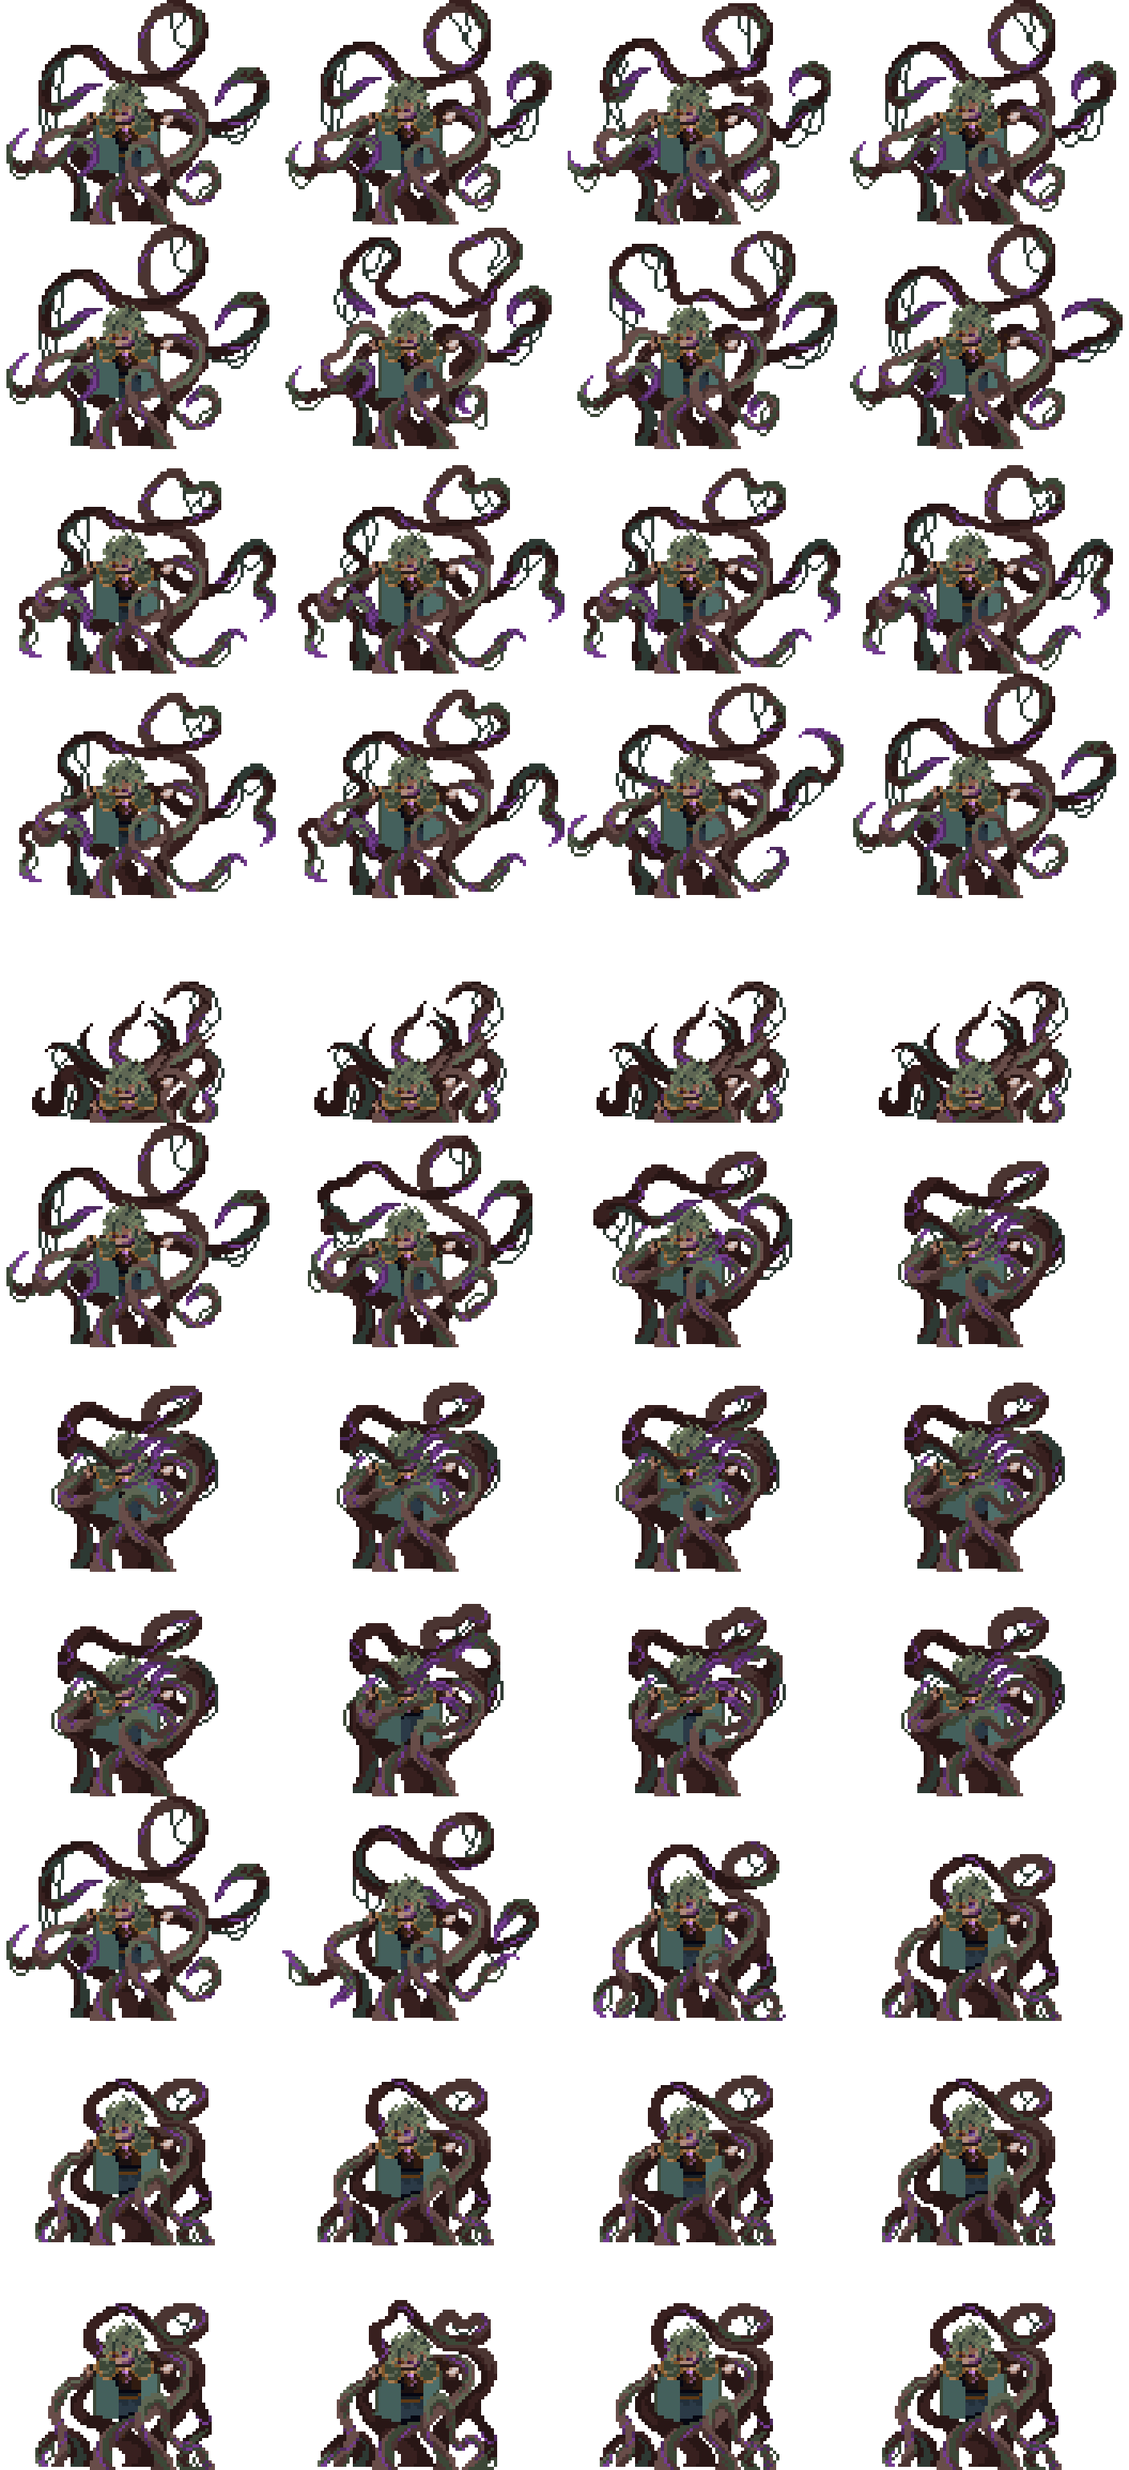
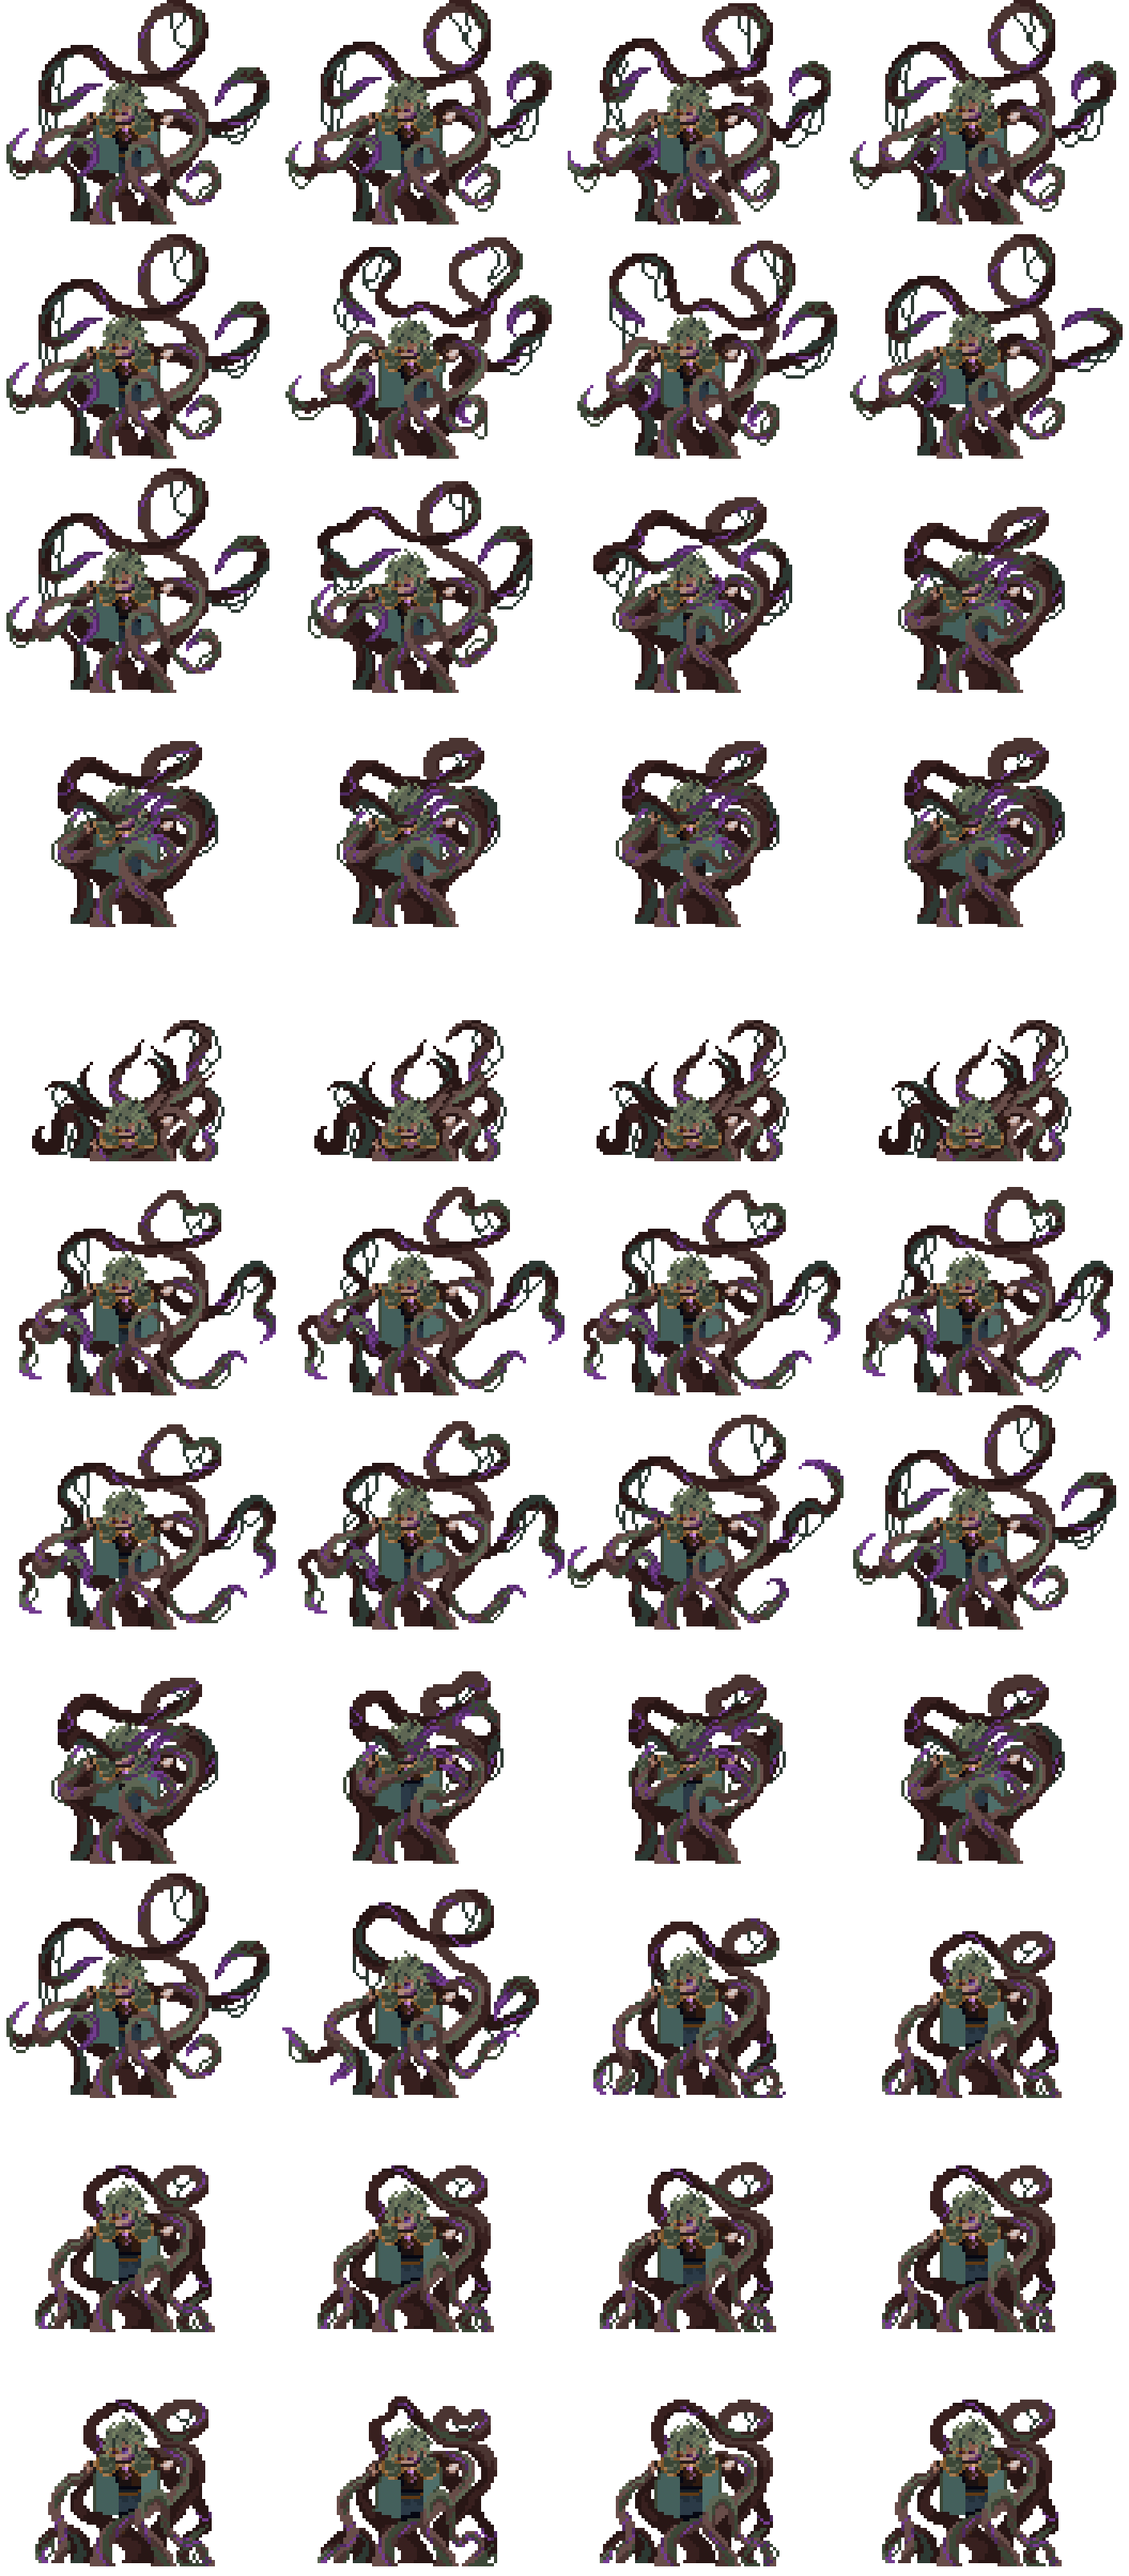
починил на самом деле дэмиана и баг с анимками в краю экрана

Changed region(s): [[0.0, 0.0, 1.0, 1.0]]

diff --git a/js/plugins/FixForcedActionStateTicks.js b/js/plugins/FixForcedActionStateTicks.js
@@ -1,72 +1,215 @@
+
 //=============================================================================
 // FixForcedActionStateTicks.js
-// Blocks state turn reduction for non-subject battlers during and shortly
-// after forced actions triggered by queueForceAction.
-// Place BELOW: YEP_BattleEngineCore, YEP_BuffsStatesCore, YEP_X_BattleSysCTB,
-// CustomAfterActionEffect
+// RPG Maker MV
+//
+// Directly decreases state and buff turn counters after forced actions.
+// Does not call onTurnEnd(), so no extra regeneration is triggered.
+//
+// Place BELOW:
+//   YEP_BattleEngineCore
+//   YEP_BuffsStatesCore
+//   YEP_X_BattleSysCTB
+//   CustomAfterActionEffect
 //=============================================================================
 
 (function() {
+    'use strict';
 
-var Imported = Imported || {};
-Imported.FixForcedActionStateTicks = true;
+    var Imported = Imported || {};
+    Imported.FixForcedActionStateTicks = true;
 
-// --- 1) Hook queueForceAction: mark subject BEFORE forced action runs ---
-if (typeof BattleManager.queueForceAction === 'function') {
-    var _BM_queueForceAction = BattleManager.queueForceAction;
-    BattleManager.queueForceAction = function(subject, skillId, targetIndex) {
-        BattleManager._faSubject = subject;
-        BattleManager._faQueued = true;
-        return _BM_queueForceAction.apply(this, arguments);
+    //-------------------------------------------------------------------------
+    // Initialization
+    //-------------------------------------------------------------------------
+
+    BattleManager._faPendingSubjects = [];
+    BattleManager._faCurrentSubject = null;
+
+    function isBattler(obj) {
+        return obj &&
+            obj._states &&
+            obj._stateTurns &&
+            obj._buffTurns;
+    }
+
+    function battlerName(battler) {
+        if (!battler) return 'NULL';
+
+        if (battler.isActor && battler.isActor()) {
+            return 'Actor: ' + battler.name() +
+                ' (ID ' + battler.actorId() + ')';
+        }
+
+        if (battler.isEnemy && battler.isEnemy()) {
+            return 'Enemy: ' + battler.name() +
+                ' (Index ' + battler.index() + ')';
+        }
+
+        return 'Unknown battler';
+    }
+
+    //-------------------------------------------------------------------------
+    // 1. Remember queued forced-action subjects.
+    //-------------------------------------------------------------------------
+
+    if (typeof BattleManager.queueForceAction === 'function') {
+        var _FA_queueForceAction = BattleManager.queueForceAction;
+
+        BattleManager.queueForceAction = function(subject, skillId, targetIndex) {
+            if (isBattler(subject)) {
+                this._faPendingSubjects.push(subject);
+
+                console.log(
+                    '[FA TICKS] Queued:',
+                    battlerName(subject),
+                    'Skill:',
+                    skillId
+                );
+            }
+
+            return _FA_queueForceAction.apply(this, arguments);
+        };
+    }
+
+    //-------------------------------------------------------------------------
+    // 2. Detect the subject when the forced action starts.
+    //-------------------------------------------------------------------------
+
+    var _FA_processForcedAction = BattleManager.processForcedAction;
+
+    BattleManager.processForcedAction = function() {
+        var forcedSubject = null;
+
+        if (isBattler(this._actionForcedBattler)) {
+            forcedSubject = this._actionForcedBattler;
+        }
+
+        if (!forcedSubject && this._faPendingSubjects.length > 0) {
+            forcedSubject = this._faPendingSubjects.shift();
+        } else if (forcedSubject) {
+            var index = this._faPendingSubjects.indexOf(forcedSubject);
+
+            if (index >= 0) {
+                this._faPendingSubjects.splice(index, 1);
+            }
+        }
+
+        this._faCurrentSubject = forcedSubject;
+
+        console.log(
+            '[FA TICKS] Processing:',
+            battlerName(forcedSubject)
+        );
+
+        _FA_processForcedAction.call(this);
+
+        // Fallback for battle systems that assign the subject here.
+        if (!this._faCurrentSubject && isBattler(this._subject)) {
+            this._faCurrentSubject = this._subject;
+        }
     };
-}
 
-// --- 2) Hook processForcedAction: mark active + clear queued ---
-var _BM_processForcedAction = BattleManager.processForcedAction;
-BattleManager.processForcedAction = function() {
-    BattleManager._faQueued = false;
-    BattleManager._faActive = true;
-    _BM_processForcedAction.call(this);
-};
+    //-------------------------------------------------------------------------
+    // 3. Directly decrease durations.
+    //-------------------------------------------------------------------------
 
-// --- 3) Hook endAction: forced action ended → start grace window ---
-var _BM_endAction = BattleManager.endAction;
-BattleManager.endAction = function() {
-    var wasForced = BattleManager._faActive;
-    _BM_endAction.call(this);
-    if (wasForced) {
-        BattleManager._faActive = false;
-        BattleManager._faGrace = 120;   // frames of protection after forced action
+    function tickForcedActionDurations(battler) {
+        if (!isBattler(battler)) return;
+
+        var statesBefore = [];
+        var statesAfter = [];
+
+        // States: directly decrease every positive turn counter.
+        battler._states.slice().forEach(function(stateId) {
+            var turns = battler._stateTurns[stateId];
+
+            statesBefore.push({
+                id: stateId,
+                turns: turns
+            });
+
+            if (typeof turns === 'number' && turns > 0) {
+                battler._stateTurns[stateId] = turns - 1;
+            }
+        });
+
+        // Remove states whose turn duration has expired.
+        // Timing 2 corresponds to turn-end removal in RPG Maker MV.
+        if (typeof battler.removeStatesAuto === 'function') {
+            battler.removeStatesAuto(2);
+        }
+
+        // Buffs: directly decrease every positive turn counter.
+        for (var i = 0; i < battler._buffTurns.length; i++) {
+            if (battler._buffTurns[i] > 0) {
+                battler._buffTurns[i]--;
+            }
+        }
+
+        // Remove expired buffs.
+        if (typeof battler.removeBuffsAuto === 'function') {
+            battler.removeBuffsAuto();
+        }
+
+        // Collect the resulting state counters.
+        battler._states.forEach(function(stateId) {
+            statesAfter.push({
+                id: stateId,
+                turns: battler._stateTurns[stateId]
+            });
+        });
+
+        console.log(
+            '[FA TICKS] Finished:',
+            battlerName(battler),
+            'States BEFORE:',
+            JSON.stringify(statesBefore),
+            'States AFTER:',
+            JSON.stringify(statesAfter),
+            'Buff turns:',
+            JSON.stringify(battler._buffTurns)
+        );
     }
-};
 
-// --- 4) Decrement grace counter every frame ---
-var _BM_update = BattleManager.update;
-BattleManager.update = function() {
-    if (BattleManager._faGrace > 0) BattleManager._faGrace--;
-    _BM_update.call(this);
-};
+    //-------------------------------------------------------------------------
+    // 4. Tick only the subject of the action that actually ended.
+    //-------------------------------------------------------------------------
 
-// --- 5) Block updateStateTurns for non-subjects during forced + grace ---
-var _GBB_updateStateTurns = Game_BattlerBase.prototype.updateStateTurns;
-Game_BattlerBase.prototype.updateStateTurns = function() {
-    var active = BattleManager._faActive || BattleManager._faQueued;
-    var grace = BattleManager._faGrace > 0;
-    var subject = BattleManager._faSubject;
-    if ((active || grace) && subject && this !== subject) {
-        return;
-    }
-    _GBB_updateStateTurns.call(this);
-};
+    var _FA_endAction = BattleManager.endAction;
 
-// --- 6) Reset flags on battle setup ---
-var _BM_setup = BattleManager.setup;
-BattleManager.setup = function(troopId, canEscape, canLose) {
-    this._faActive = false;
-    this._faQueued = false;
-    this._faGrace = 0;
-    this._faSubject = null;
-    _BM_setup.call(this, troopId, canEscape, canLose);
-};
+    BattleManager.endAction = function() {
+        // Capture before original endAction:
+        // CustomAfterActionEffect can queue new actions inside it.
+        var endingSubject = this._subject;
+        var forcedSubject = this._faCurrentSubject;
+
+        var isForcedAction =
+            isBattler(forcedSubject) &&
+            endingSubject === forcedSubject;
+
+        _FA_endAction.call(this);
+
+        if (isForcedAction) {
+            tickForcedActionDurations(forcedSubject);
+
+            if (this._faCurrentSubject === forcedSubject) {
+                this._faCurrentSubject = null;
+            }
+        }
+    };
+
+    //-------------------------------------------------------------------------
+    // 5. Reset on battle setup.
+    //-------------------------------------------------------------------------
+
+    var _FA_setup = BattleManager.setup;
+
+    BattleManager.setup = function(troopId, canEscape, canLose) {
+        this._faPendingSubjects = [];
+        this._faCurrentSubject = null;
+
+        _FA_setup.call(this, troopId, canEscape, canLose);
+    };
 
 })();

diff --git a/js/plugins/VE_LoopAnimation.js b/js/plugins/VE_LoopAnimation.js
@@ -772,3 +772,73 @@ VictorEngine.LoopAnimation = VictorEngine.LoopAnimation || {};
   };
 
 })();
+
+// =============================================================================
+// Add-on: Actor Loop Animation Offset
+// Notetag on Actor (Actors tab):
+//   <loop animation offset: x, y>
+// Examples:
+//   <loop animation offset: 0, -20>   // сдвиг на 20 px вверх
+//   <loop animation offset: -10, 5>   // сдвиг влево-вниз
+// =============================================================================
+(function() {
+
+  // Получение смещения из нотэтега актора (с кэшированием)
+  Game_Actor.prototype.loopAnimationOffset = function() {
+    if (this._loopAnimationOffset === undefined) {
+      var note = (this.actor() && this.actor().note) || '';
+      var match = note.match(/<loop animation offset:[ ]*(-?\d+)[ ]*,[ ]*(-?\d+)[ ]*>/i);
+      if (match) {
+        this._loopAnimationOffset = {
+          x: Number(match[1]) || 0,
+          y: Number(match[2]) || 0
+        };
+      } else {
+        this._loopAnimationOffset = null;
+      }
+    }
+    return this._loopAnimationOffset;
+  };
+
+  // По умолчанию смещения нет
+  Sprite_Base.prototype.loopAnimationOffset = function() {
+    return null;
+  };
+
+  // Спрайт баттлера (бой) — берём смещение, если баттлер актор
+  Sprite_Battler.prototype.loopAnimationOffset = function() {
+    if (this._battler && this._battler.isActor && this._battler.isActor()) {
+      return this._battler.loopAnimationOffset();
+    }
+    return null;
+  };
+
+  // Спрайт персонажа (карта) — берём смещение у связанного актора
+  Sprite_Character.prototype.loopAnimationOffset = function() {
+    var actor = this.actor();
+    return actor ? actor.loopAnimationOffset() : null;
+  };
+
+  // Прикрепляем смещение к вновь созданным спрайтам loop-анимаций
+  var _refreshLoopAnimation = Sprite_Base.prototype.refreshLoopAnimation;
+  Sprite_Base.prototype.refreshLoopAnimation = function(data, type, index) {
+    _refreshLoopAnimation.call(this, data, type, index);
+    var sprites = this._loopAnimSprites && this._loopAnimSprites[type];
+    if (sprites && sprites.length > 0) {
+      var offset = this.loopAnimationOffset();
+      if (offset) sprites[sprites.length - 1]._loopOffset = offset;
+    }
+  };
+
+  // Применяем смещение при позиционировании (затрагивает только спрайты
+  // с установленным _loopOffset, т.е. loop-анимации акторов)
+  var _updatePosition = Sprite_Animation.prototype.updatePosition;
+  Sprite_Animation.prototype.updatePosition = function() {
+    _updatePosition.call(this);
+    if (this._loopOffset) {
+      this.x += this._loopOffset.x;
+      this.y += this._loopOffset.y;
+    }
+  };
+
+})();

diff --git a/js/plugins.js b/js/plugins.js
@@ -146,5 +146,6 @@ var $plugins =
 {"name":"A_fix_STATES+Gloss","status":true,"description":"v1.5 - Клик по иконке состояния → глоссарий (с условной логикой по актёру)","parameters":{"ClickOffsetX":"-100","ClickOffsetY":"-100","EnableForEnemies":"true"}},
 {"name":"A_skill_shift","status":true,"description":"v1.0 - Shift по навыку в бою открывает глоссарий на предмете и SGDescriptionX","parameters":{"requireShiftHold":"false"}},
 {"name":"FixForcedActionStateTicks","status":true,"description":"","parameters":{}},
-{"name":"YED_SideviewBattler_Conditions","status":true,"description":"(v1.0.1) Addon for YED_SideviewBattler - State Condition Overrides (no sprite shift).","parameters":{}}
+{"name":"YED_SideviewBattler_Conditions","status":true,"description":"(v1.0.1) Addon for YED_SideviewBattler - State Condition Overrides (no sprite shift).","parameters":{}},
+{"name":"A_fix_icons_state_right_buffs_states_bugfix","status":true,"description":"Hides state icons in the target selection help window.","parameters":{}}
 ];

diff --git a/js/plugins/A_fix_icons_state_right_buffs_states_bugfix.js b/js/plugins/A_fix_icons_state_right_buffs_states_bugfix.js
@@ -1,0 +1,31 @@
+
+/*:
+ * @plugindesc Hides state icons in the target selection help window.
+ * @author Custom
+ */
+
+(function() {
+    'use strict';
+
+    var _drawBattlerWithIcons =
+        Window_Help.prototype.drawBattlerWithIcons;
+
+    Window_Help.prototype.drawBattlerWithIcons = function(battler) {
+        if (this._battler === battler) {
+            this.contents.clear();
+            this.resetFontSettings();
+
+            this.drawText(
+                battler.name(),
+                0,
+                0,
+                this.contents.width,
+                'center'
+            );
+
+            return;
+        }
+
+        _drawBattlerWithIcons.call(this, battler);
+    };
+})();
